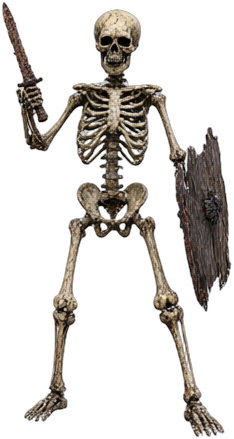
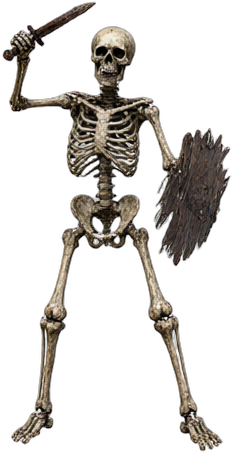
feat: 死亡の画面に sdServer 画像 376 を使い、更新された敵画像（スケルトン・ゾンビ・ウォータードラゴン）を取り込む。同期ツールは、全件をページ送りで取る

diff --git a/public/mock/play_layout.html b/public/mock/play_layout.html
@@ -110,7 +110,7 @@
       <div class="ph">ゲーム画面 800 × 600</div>
       <div id="areaName">城下町 メインストリート</div><div id="compass">北</div><div id="pauseBadge">一時停止中</div>
       <div id="bossBar"></div><div id="bottomStack"><div id="talk"></div></div>
-      <div id="death"><div class="tomb">RIP</div><div id="deathMsg" style="font-size:18px"></div><div style="color:#9ca3af">Enter か、数秒で、最後にセーブしたギルドで復活します</div></div>
+      <div id="death"><img src="/images/events/death.png" alt="" style="max-width:360px;max-height:360px;border-radius:8px"><!-- sdServer 画像 376（イベント） --><div id="deathMsg" style="font-size:18px"></div><div style="color:#9ca3af">Enter か、数秒で、最後にセーブしたギルドで復活します</div></div>
       <div id="win"><div id="winBtns"><button id="winBack" style="display:none">← 戻る</button><button id="winClose">閉じる (Esc)</button></div><div id="winBody"></div></div>
     </div>
   </div>

diff --git a/public/index.html b/public/index.html
@@ -580,7 +580,7 @@
             <div id="pauseBadge">一時停止中</div>
             <div id="bossBar"></div>
             <div id="bottomStack"><div id="signpostBanner"></div><div id="talk"></div></div>
-            <div id="death"><div class="tomb">RIP</div><div id="deathMsg" style="font-size:18px"></div><div style="color:#9ca3af">Enter か、数秒で、最後にセーブしたギルドで復活します</div></div>
+            <div id="death"><img src="/images/events/death.png" alt="" style="max-width:360px;max-height:360px;border-radius:8px"><!-- sdServer 画像 376（イベント） --><div id="deathMsg" style="font-size:18px"></div><div style="color:#9ca3af">Enter か、数秒で、最後にセーブしたギルドで復活します</div></div>
             <div id="win"><div id="winBtns"><button id="winBack" style="display:none">← 戻る</button><button id="winClose">閉じる (Esc)</button></div><div id="winBody"></div></div>
         </div>
 

diff --git a/scripts/sync_sd_images.py b/scripts/sync_sd_images.py
@@ -104,7 +104,13 @@ def main():
         print('切り直し: %d 枚' % n)
         return
 
-    api = {int(i['id']): i for i in json.load(urllib.request.urlopen(a.sd + '/api/images?limit=1000'))['items']}
+    # sdServer の一覧は、1 回で返る件数に上限がある（limit を大きくしても 120 件ほど）。全件が取れるまで、offset でページ送りする
+    api, off = {}, 0
+    while True:
+        res = json.load(urllib.request.urlopen('%s/api/images?limit=100&offset=%d' % (a.sd, off)))
+        for i in res['items']: api[int(i['id'])] = i
+        off += len(res['items'])
+        if not res['items'] or off >= res.get('total', 0): break
     man = json.load(open(MANIFEST)) if os.path.exists(MANIFEST) else {}
     todo, seen = [], {}
     for path, key, sid, rel, kind in targets():
